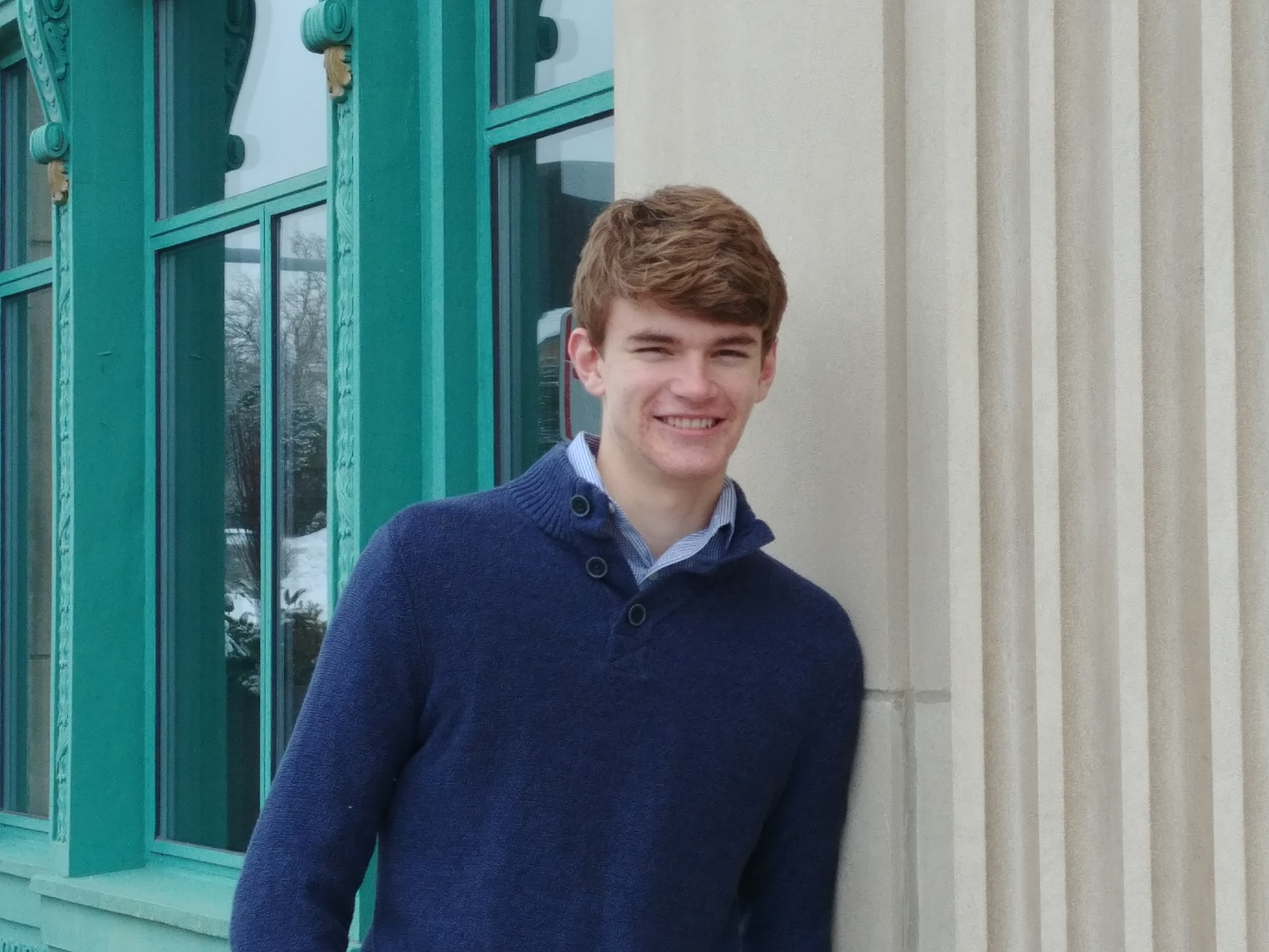
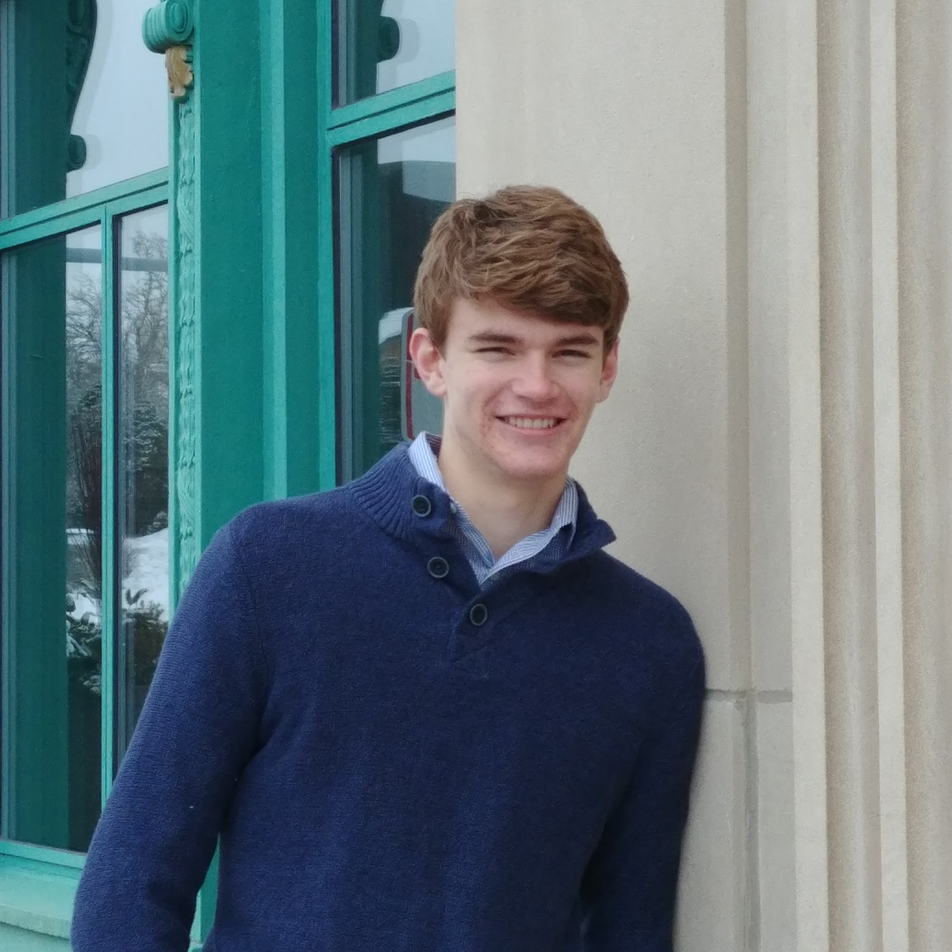
about picture effect

diff --git a/src/components/sections/About.scss b/src/components/sections/About.scss
@@ -10,26 +10,85 @@
     justify-content: center;
 }
 .aboutImg-wrap {
-    max-width: 400px;
-    border: 0; 
-    border-radius: 5px;
-    border-right: 5px;
-    border-bottom: 5px;
-    border-style: solid;
-    border-color: $tertiary;
+    max-width: 300px;
+    opacity:.6;
+    background-color: $primary;
+    justify-content: center;
+    display: flex;
 }
 #profile {
     border-radius: 10px;
-    padding:7px;
-}
-#profile:hover {
-    opacity:1;
+    opacity: .4;
 }
 .aboutImg-wrap:hover {
-    border:0;
-    border: 0px;
-    border-right: 7px;
-    border-bottom: 7px;
+    animation: rotate 8s infinite;
+    background-color: transparent;
+    border:10px;
     border-style: solid;
-    border-color: $tertiary;
+    border-color:$primary;
+    
+    #profile {
+        animation: counter-rotate 8s infinite;
+        padding:15px;
+        transition: all 0.3s ease;
+        opacity: 1;
+    }
+}
+@keyframes rotate {
+    0% {
+        transform: rotate(0deg);
+    }
+    12% {
+        transform:rotate(45deg);
+    }
+    25% {
+        transform: rotate(90deg);
+    }
+    37% {
+        transform: rotate(135deg);
+    }
+    50% {
+        transform: rotate(180deg);
+    }
+    62% {
+        transform: rotate(225deg);
+    }
+    75% {
+        transform: rotate(270deg);
+    }
+    87% {
+        transform: rotate(315deg);
+    }
+    100% {
+        transform: rotate(360deg);
+    }
+}
+@keyframes counter-rotate {
+    0% {
+        transform: rotate(0deg);
+    }
+    12% {
+        transform:rotate(-45deg);
+    }
+    25% {
+        transform: rotate(-90deg);
+    }
+    37% {
+        transform: rotate(-135deg);
+    }
+    50% {
+        transform: rotate(-180deg);
+    }
+    62% {
+        transform: rotate(-225deg);
+    }
+    75% {
+        transform: rotate(-270deg);
+    }
+    87% {
+        transform: rotate(-315deg);
+    }
+    100% {
+        transform: rotate(-360deg);
+    }
 }

diff --git a/src/components/Command.js b/src/components/Command.js
@@ -42,7 +42,7 @@ const Command = () => {
     <div className="commmand-wrap" id="command-wrap">
     <span className="command" id="command">
         <div className='user'><p>visitor@drew.com:~$&nbsp;</p></div>
-        <textarea onKeyDown={handleKeyPress} type='text' id='commandline' spellCheck='false'></textarea>
+        <textarea onKeyDown={handleKeyPress} type='text' id='commandline' spellCheck='false' maxLength={15}></textarea>
     </span>
     </div>
   )
